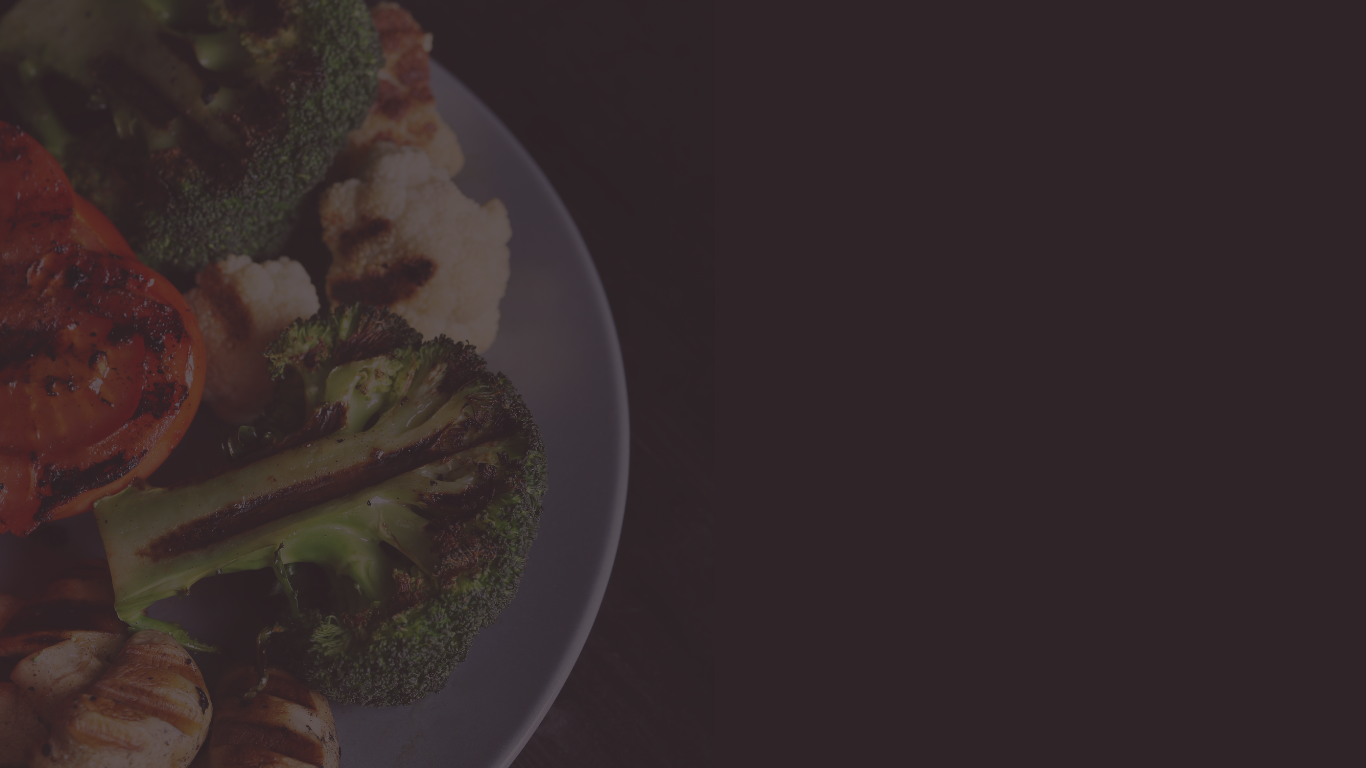
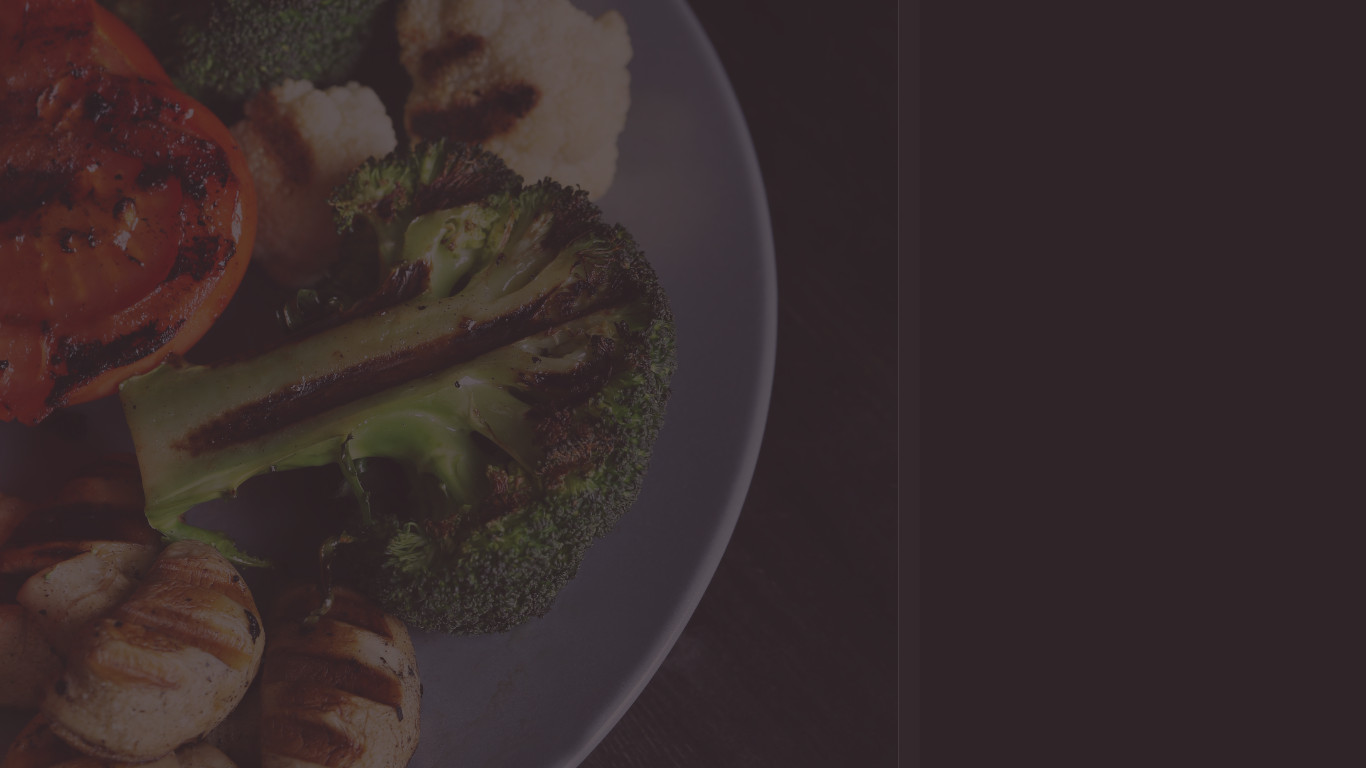
background change

diff --git a/css/style.css b/css/style.css
@@ -15,7 +15,9 @@
 }
 body {
     overflow: hidden;
-    background-color: #e8e4d63d;
+    background: url('/assets/BG.png');
+    background-size: 100%;
+    background-repeat: no-repeat;
 }
 .hero-container {
     transform: translateY(25%);
@@ -24,24 +26,18 @@ body {
     text-align: center;
     margin-right: 0;
 }
-.hero img{
-    width: 50vh;
-    position: relative;
-}
 h1{
     font-family: var(--titles);
-    color: var(--black-coffee);
+    color: #eeece5;
     font-size: 10em;
-    transform: rotate(-6deg);
+    transform: rotate(-15deg);
     position: relative;
-}
-h1 span{
-    color:var(--forest-green);
+    margin-top: 14vh;
 }
 .container {
     text-align: center;
     min-height: 100vh;
-    background-color: var(--black-coffee);
+    background-color: #f7f3e8;
     width: 35%;
     padding: 20px;
     display: block;
@@ -52,7 +48,7 @@ h2{
     margin-top: 10vh;
     margin-bottom: 40px;
     font-family: var(--labels);
-    color: #e8e4d6ec;
+    color: var(--black-coffee);
     font-size: 2.2em;
 }
 .div-inputs {
@@ -73,7 +69,8 @@ input[type='number'] {
     margin-top: 8px;
     border-radius: 6px;
     padding: 8px;
-    background-color: #e9e6dd;
+    background-color: #fcfbf9;
+    border: none;
     color: var(--forest-green);
     font-size: 1.5em;
     font-weight: 600;
@@ -82,26 +79,40 @@ input[type='number'] {
 input[type='number']::placeholder{
     font-family: var(--small-info);
     font-size: 16px;
-    color:rgba(209, 148, 105, 0.411);
+    color:#d1946969;
     font-family: var(--small-info);
 }
-input[type='radio'] {
-    font: inherit;
-    width: 1em;
-    height: 1em;
-    margin-bottom: 25px;
+input[type="radio"] {
+	appearance: none;
+	width: 15px;
+	height: 15px;
+	border: 2px solid var(--black-coffee);
+	border-radius: 50%;
+	background-clip: content-box;
+	padding: 2px;
+    margin-top: 5px;
+}
+input[type="radio"]:checked {
+	background-color: var(--black-coffee);
+}
+label{
+    margin-right: 10px;
 }
 button {
     margin-top: 30px;
     margin-bottom: 5vh;
     padding: 10px;
     width: 20%;
-    font-size: 18px;
     border-radius: 6px;
     border: none;
+    background-color: #fcfbf9;
+    color: var(--black-coffee);
+    font-size: 1em;
+    font-weight: 400;
 }
 #send:hover{
-    background: linear-gradient(140deg, rgb(252, 219, 153), #e8e4d6ec); 
+    background: linear-gradient(140deg, #d19469cb, #e8e4d6); 
+    color: #fcfbf9;
     cursor: pointer;
 }
 #dev-info{
@@ -109,8 +120,8 @@ button {
     text-align: center;
 }
 #dev-info p, a{
-    font-size: 10px;
-    color: #e8e4d6ec;
+    font-size: 12px;
+    color: #d1946969;
 }
 #dev-info a{
     text-decoration: none;  
@@ -143,9 +154,6 @@ button {
         border-radius: 20px;
         margin-top: 15vh;
         font-size: 1em;
-    }
-    .hero img{
-        width: 30vh;
     }
     .container{
         transform: rotateY(40%);

diff --git a/index.html b/index.html
@@ -5,6 +5,7 @@
     <meta httlabel-equiv="X-UA-Comlabelatible" content="IE=edge" />
     <meta name="viewlabelort" content="width=device-width, initial-scale=1.0" />
     <title>Vegetômetro</title>
+    <link rel="shortcut icon" href="assets/favicon.ico" type="image/x-icon">
     <link rel="stylesheet" href="css/style.css" />
     <link rel="labelreconnect" href="https://fonts.googleapis.com" />
     <link rel="preconnect" href="https://fonts.gstatic.com" crossorigin />
@@ -16,10 +17,7 @@
 
   <body>
     <div class="hero-container">
-      <h1><span>V</span>egetômetro</h1>
-      <div class="hero">
-        <img src="/assets/garlic-gcf0b598cd_1280.png" alt="" />
-      </div>
+      <h1>Vegetômetro</h1>
       <button class="display-none">></button>
     </div>
 
@@ -33,14 +31,13 @@
         <input type="number" name="children" id="children" />
         <p for="adults">duração do churrasco:</p>
         <input type="number" name="hours" id="duration" placeholder="EM HORAS" />
-        <br>
+        <p>incluir bebida alcoólica:</p>
         <input type="radio" name="alchool" id="alchool">
-        <label for="alchool">com bebida alcoólica</label>
-        <br>
+        <label for="alchool">sim</label>
         <input type="radio" name="alchool" id="alchoolFree">
-        <label for="alchoolFree">sem bebida alcoólica</label>
+        <label for="alchoolFree">não</label>
       </div>
-      <button type="submit" id="send">Calcular</button>
+      <button type="submit" id="send">CALCULAR</button>
       <span id="dev-info">
         <p>dev <a href="">monica vaz</a></p>
         <p><a href="https://www.freepik.com/photos/food">Food photo created by Racool_studio - www.freepik.com</a></p>
